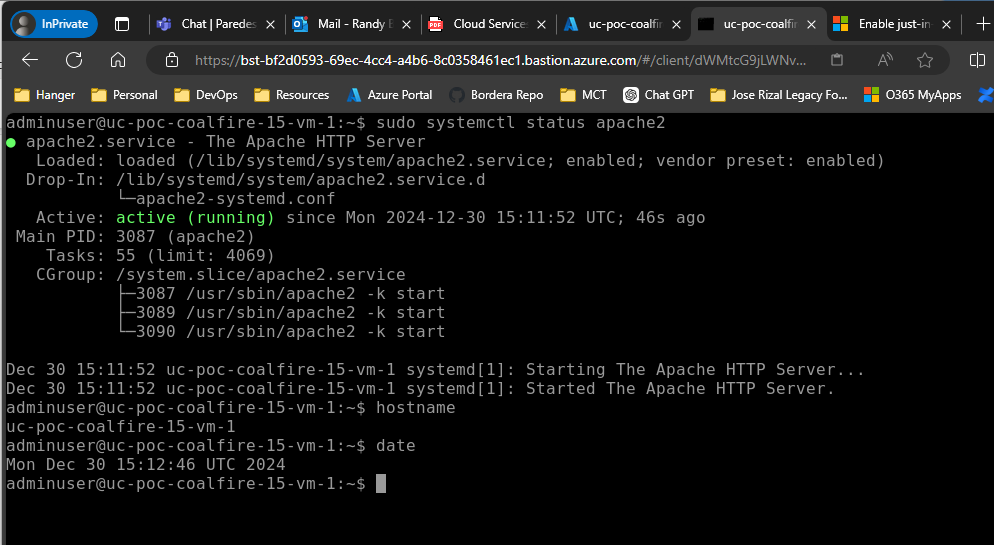
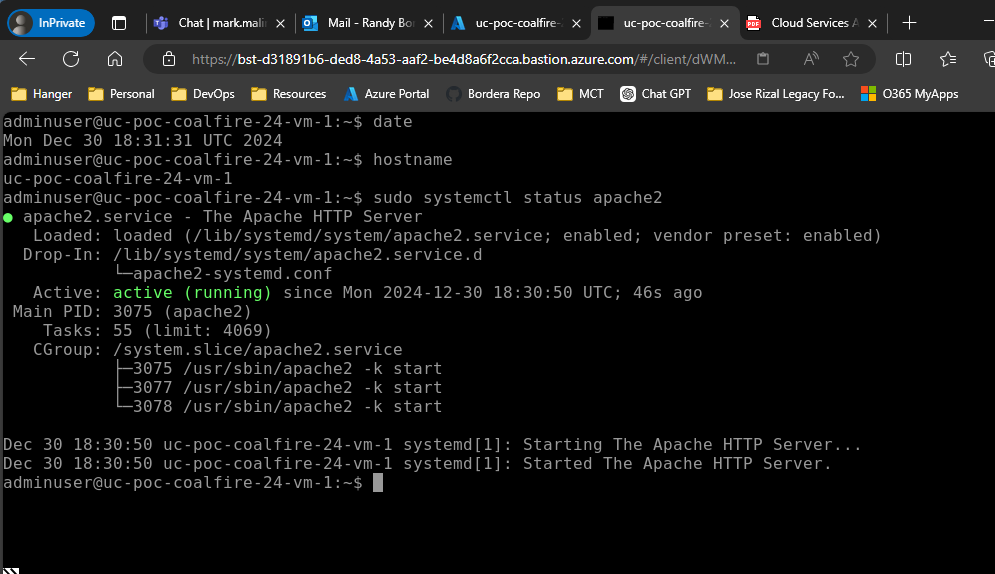
Update Load Balancer output reference; increment iteration number; modify README for Apache installation steps

Changed region(s): [[0.0, 0.0, 1.0, 1.0], [0.8109, 0.2807, 0.9044, 0.3119]]

diff --git a/README.md b/README.md
@@ -113,12 +113,12 @@ The architecture consists of the following components:
 ## Screenshots
 ### Connection to management vm 
 ![management vm](img\Management-vm-connection.png)  
-
+![alt text](image.png)
 ### Apache running on web vm 1  
 ![Apache on web vm 1](img\web-vm1-apache.png)  
 
 ### Apache running on web vm 2  
-![Apache on web vm 1](img\web-vm1-apache.png)  
+![Apache on web vm 2](img\web-vm2-apache.png)  
 
 ## Deployment Steps
 1. **Initialize Terraform**: Set up the working directory and download required provider plugins.
@@ -139,6 +139,12 @@ The architecture consists of the following components:
    - Virtual Machines were created without the use of modules. This was due to CoalFire not having a Linux module published. This also demonstrates the creation of resources without the use of a module. 
    - Virtual machine passwords were generated in the terraform randomly.
    - variables are stored in local variables rather than tfvars file, this is personal preference. When building pipelines using local variables is easier to link to runtime parameters. 
+   - Install Commands for Apache
+    - `  
+    sudo apt update  
+    sudo apt install apache2 -y  
+    sudo systemctl status apache2  
+    `  
 
 
 ## Assumptions
